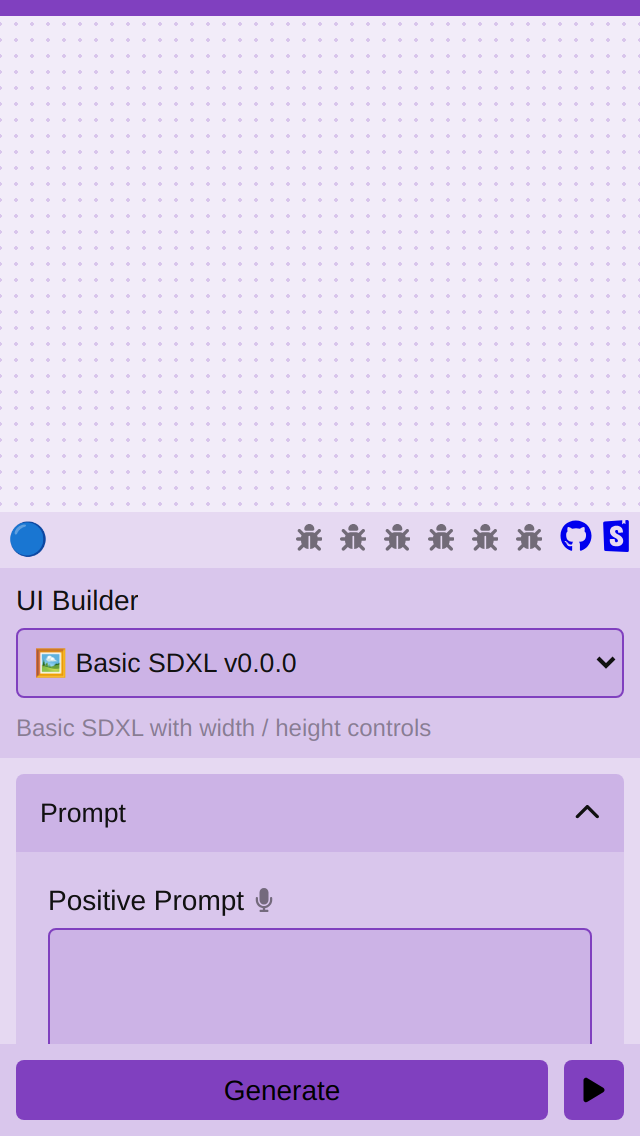
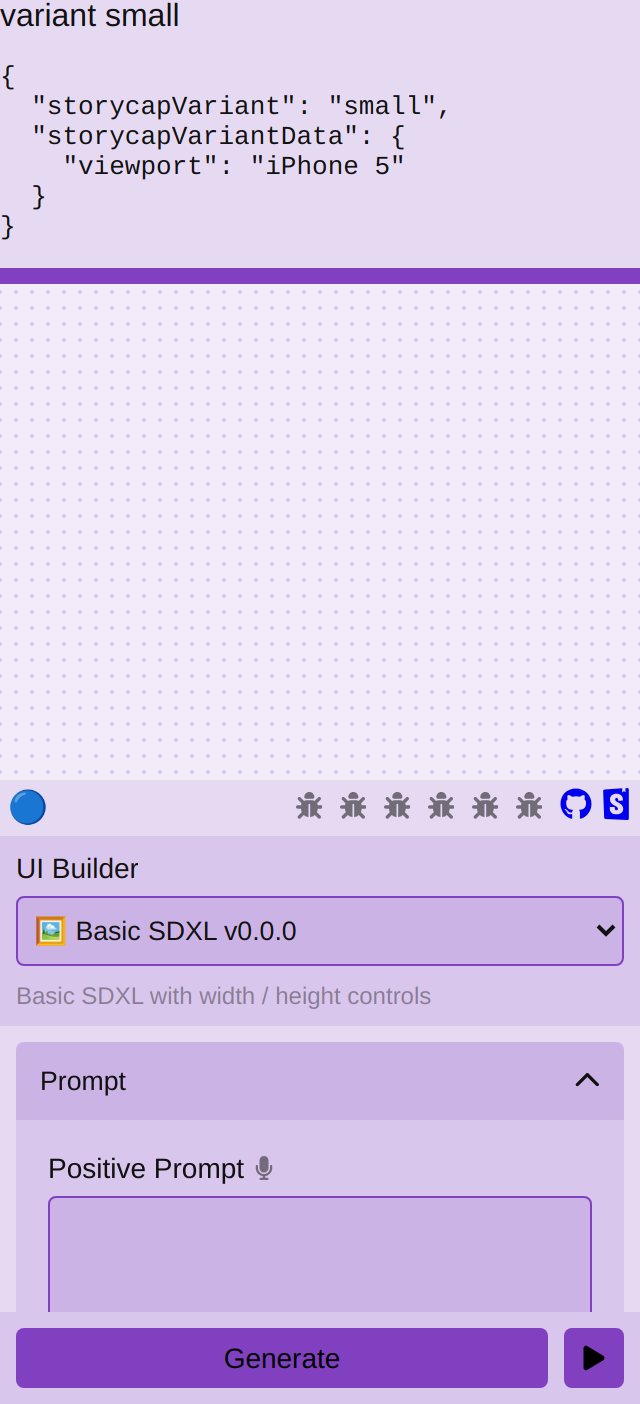
get storycap variant

diff --git a/packages/storybook/ProjectDecorator.jsx b/packages/storybook/ProjectDecorator.jsx
@@ -1,0 +1,46 @@
+/* eslint-disable import/no-extraneous-dependencies */
+import Providers from '@/Providers';
+import { GlobalStyle, Theme1Style } from '@/components/globalStyles';
+
+import { useParameter, useState, useEffect } from '@storybook/preview-api';
+import { isScreenshot } from 'storycap';
+
+const useStorycapCurrentVariant = () => {
+  const screenshot = useParameter('screenshot');
+  const [storycapVariant, setStorycapVariant] = useState();
+  const [storycapVariantData, setStorycapVariantData] = useState();
+  useEffect(() => {
+    const asyncFn = async () => {
+      if (!isScreenshot()) return;
+      const currentVariantKey = await window.getCurrentVariantKey();
+      const variant = currentVariantKey.keys[0];
+      setStorycapVariant(variant);
+      setStorycapVariantData(screenshot.variants[variant]);
+    };
+    asyncFn();
+  }, []);
+
+  return { storycapVariant, storycapVariantData };
+};
+
+const ProjectDecorator = Story => {
+  const { storycapVariant, storycapVariantData } = useStorycapCurrentVariant();
+
+  return (
+    <>
+      {storycapVariant && (
+        <div>
+          storycap variant: {storycapVariant}
+          <pre>{JSON.stringify(storycapVariantData, null, 2)}</pre>
+        </div>
+      )}
+      <GlobalStyle />
+      <Theme1Style />
+      <Providers>
+        <Story />
+      </Providers>
+    </>
+  );
+};
+
+export default ProjectDecorator;

diff --git a/packages/storybook/.storybook/preview.jsx b/packages/storybook/.storybook/preview.jsx
@@ -1,21 +1,5 @@
-/* eslint-disable import/no-extraneous-dependencies */
-import Providers from '@/Providers';
-import { GlobalStyle, Theme1Style } from '@/components/globalStyles';
 import { withScreenshot } from 'storycap';
-
-const projectDecorator = (Story, { globals }) => (
-  <>
-    <div>
-      data
-      <pre>{JSON.stringify(globals, null, 2)}</pre>
-    </div>
-    <GlobalStyle />
-    <Theme1Style />
-    <Providers>
-      <Story />
-    </Providers>
-  </>
-);
+import ProjectDecorator from '../ProjectDecorator';
 
 /** @type { import('@storybook/react').Preview } */
 const preview = {
@@ -46,7 +30,7 @@ const preview = {
     },
   },
 
-  decorators: [withScreenshot, projectDecorator],
+  decorators: [withScreenshot, ProjectDecorator],
 };
 
 export default preview;
